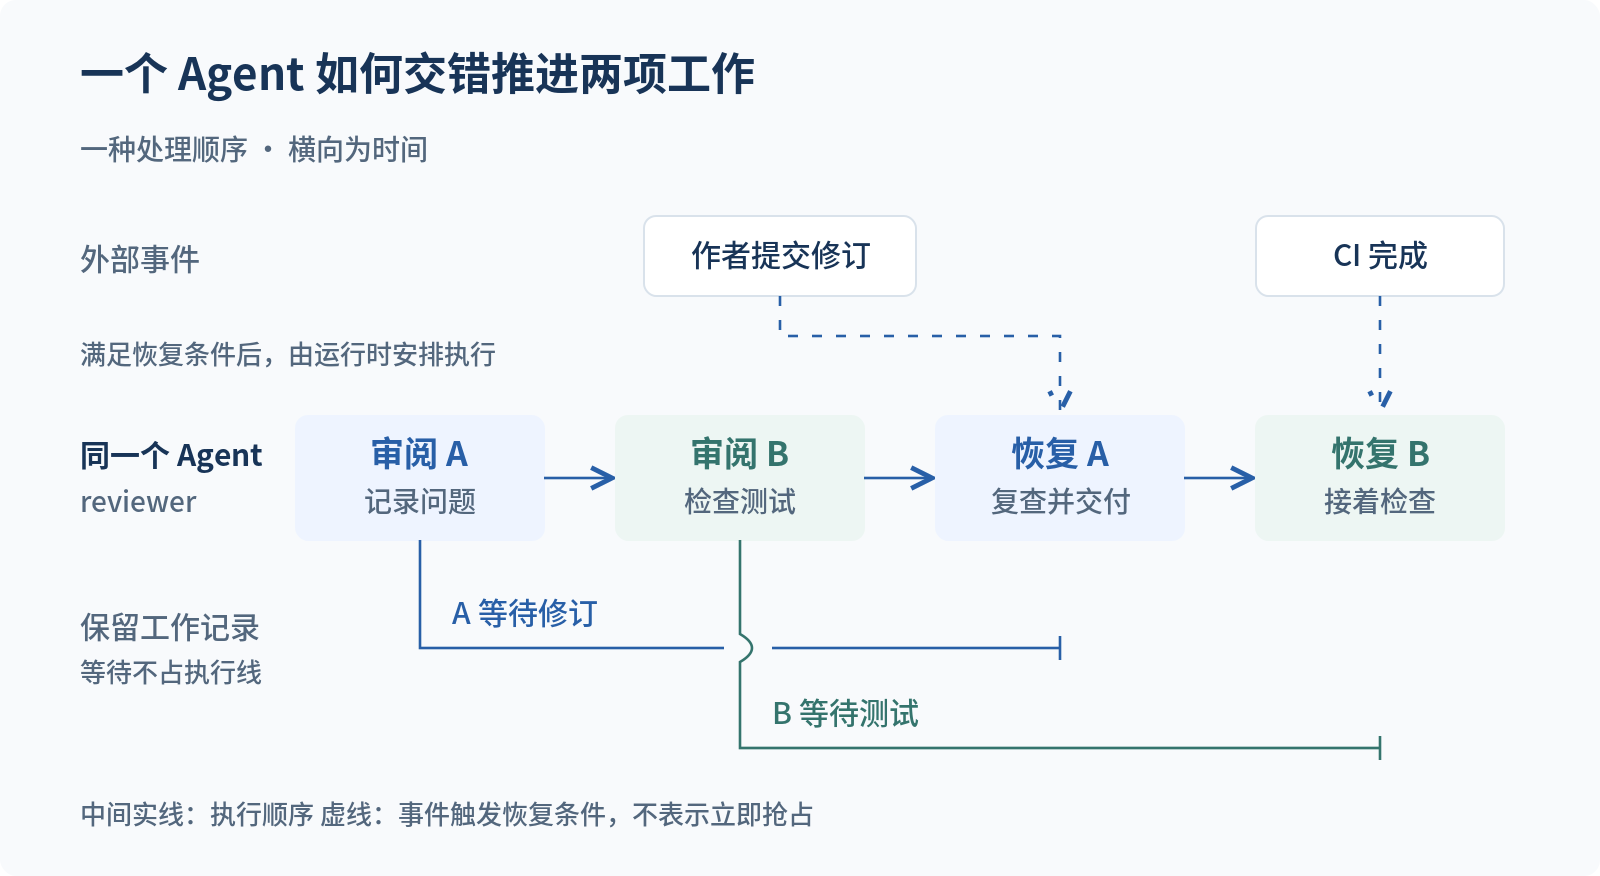
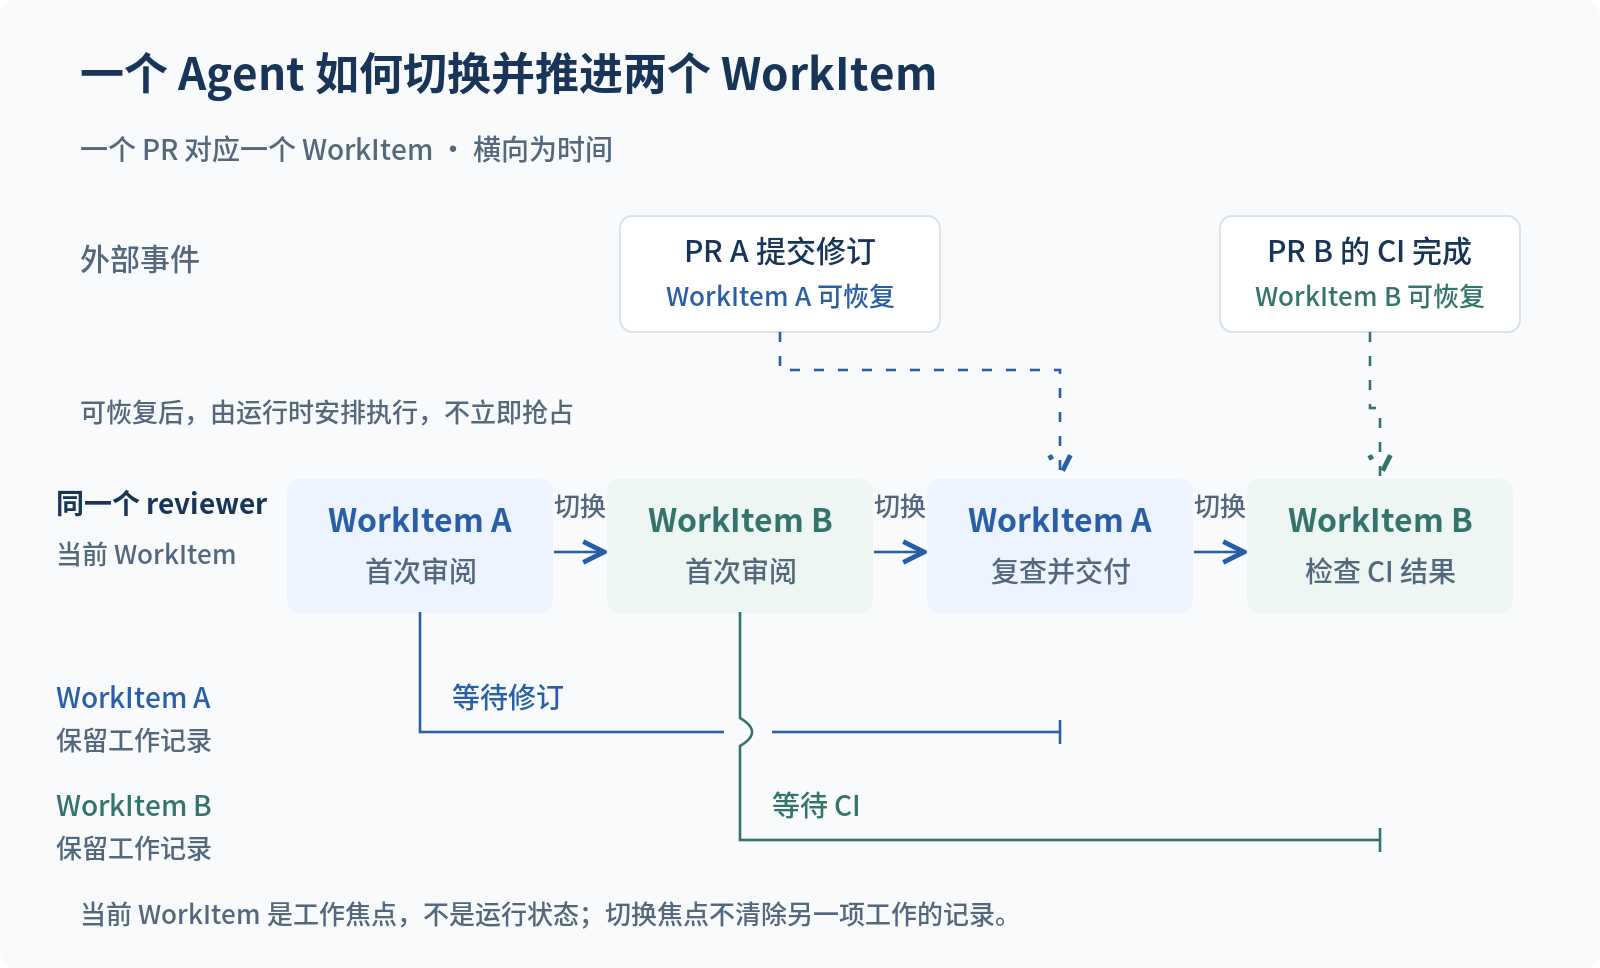
docs: clarify reviewer WorkItem focus and switching

diff --git a/docs/website/.tools/render-work-item-diagrams.py b/docs/website/.tools/render-work-item-diagrams.py
@@ -56,7 +56,16 @@ class Diagram:
         )
 
     def path(self, data, arrow=True, dashed=False, color=BLUE):
-        attrs = ' marker-end="url(#arrow)"' if arrow else ''
+        marker = 'arrow'
+        if arrow and color != BLUE:
+            marker = f'arrow-{len(self.parts)}'
+            self.parts.append(
+                f'<defs><marker id="{marker}" markerWidth="8" markerHeight="8" '
+                'refX="7" refY="4" orient="auto-start-reverse">'
+                f'<path d="M1 1L7 4L1 7" fill="none" stroke="{color}" '
+                'stroke-width="1.4"/></marker></defs>'
+            )
+        attrs = f' marker-end="url(#{marker})"' if arrow else ''
         attrs += ' stroke-dasharray="5 7"' if dashed else ''
         self.parts.append(
             f'<path d="{data}" fill="none" stroke="{color}" '
@@ -110,47 +119,54 @@ def architecture():
 
 def sequence():
     d = Diagram(
-        '一个 Agent 如何交错推进两项工作',
-        '同一个 reviewer 依次审阅 A、审阅 B、恢复 A、恢复 B。'
-        '外部事件满足恢复条件后，由运行时安排执行；等待期间工作记录保留。',
-        438,
+        '一个 Agent 如何切换并推进两个 WorkItem',
+        '每个 PR 对应一个 WorkItem。同一个 reviewer 的当前工作焦点依次为 A、B、A、B。'
+        '外部事件使对应 WorkItem 可恢复，再由运行时安排执行；切换焦点不清除等待记录。',
+        484,
     )
     teal = '#34746d'
-    d.text(40, 80, '一种处理顺序 · 横向为时间', 14, MUTED)
+    d.text(40, 80, '一个 PR 对应一个 WorkItem · 横向为时间', 14, MUTED)
 
     d.text(40, 135, '外部事件', 15, MUTED)
-    for x, width, title in [(322, 136, '作者提交修订'), (628, 124, 'CI 完成')]:
-        d.rect(x, 108, width, 40)
-        d.text(x + width / 2, 133, title, 15, anchor='middle')
-    d.path('M390 148V168H530V206', dashed=True)
-    d.path('M690 148V206', dashed=True)
-    d.text(40, 182, '满足恢复条件后，由运行时安排执行', 13, MUTED)
+    for x, width, title, note, color in [
+        (310, 160, 'PR A 提交修订', 'WorkItem A 可恢复', BLUE),
+        (610, 150, 'PR B 的 CI 完成', 'WorkItem B 可恢复', teal),
+    ]:
+        d.rect(x, 108, width, 58)
+        d.text(x + width / 2, 131, title, 15, anchor='middle')
+        d.text(x + width / 2, 153, note, 13, color, anchor='middle')
+    d.path('M390 166V185H530V238', dashed=True)
+    d.path('M685 166V204H690V238', dashed=True, color=teal)
+    d.text(40, 211, '可恢复后，由运行时安排执行，不立即抢占', 13, MUTED)
 
-    d.text(40, 233, '同一个 Agent', 15, bold=True)
-    d.text(40, 256, 'reviewer', 14, MUTED)
+    d.text(28, 257, '同一个 reviewer', 14, bold=True)
+    d.text(28, 282, '当前 WorkItem', 13, MUTED)
     for i, (center, title, note, fill, color) in enumerate([
-        (210, '审阅 A', '记录问题', ACTIVE[0], BLUE),
-        (370, '审阅 B', '检查测试', '#edf6f3', teal),
-        (530, '恢复 A', '复查并交付', ACTIVE[0], BLUE),
-        (690, '恢复 B', '接着检查', '#edf6f3', teal),
+        (210, 'WorkItem A', '首次审阅', ACTIVE[0], BLUE),
+        (370, 'WorkItem B', '首次审阅', '#edf6f3', teal),
+        (530, 'WorkItem A', '复查并交付', ACTIVE[0], BLUE),
+        (690, 'WorkItem B', '检查 CI 结果', '#edf6f3', teal),
     ]):
-        d.rect(center - 62, 208, 124, 62, fill, fill)
-        d.text(center, 233, title, 17, color, bold=True, anchor='middle')
-        d.text(center, 256, note, 14, MUTED, anchor='middle')
+        d.rect(center - 66, 240, 132, 66, fill, fill)
+        d.text(center, 266, title, 16, color, bold=True, anchor='middle')
+        d.text(center, 291, note, 14, MUTED, anchor='middle')
         if i < 3:
-            d.path(f'M{center + 62} 239H{center + 96}')
+            d.path(f'M{center + 67} 276H{center + 92}')
+            d.text(center + 80, 258, '切换', 13, MUTED, anchor='middle')
 
-    d.text(40, 319, '保留工作记录', 15, MUTED)
-    d.text(40, 341, '等待不占执行线', 13, MUTED)
-    d.path('M210 270V324H362M386 324H530', arrow=False, color=BLUE)
-    d.path('M530 318V330', arrow=False, color=BLUE)
-    d.text(226, 312, 'A 等待修订', 15, BLUE)
+    d.text(28, 354, 'WorkItem A', 14, BLUE)
+    d.text(28, 375, '保留工作记录', 13, MUTED)
+    d.path('M210 306V366H362M386 366H530', arrow=False, color=BLUE)
+    d.path('M530 360V372', arrow=False, color=BLUE)
+    d.text(226, 354, '等待修订', 14, BLUE)
     # A small bridge keeps the crossing distinct from a state hand-off.
-    d.path('M370 270V317Q382 324 370 331V374H690', arrow=False, color=teal)
-    d.path('M690 368V380', arrow=False, color=teal)
-    d.text(386, 362, 'B 等待测试', 15, teal)
+    d.path('M370 306V359Q382 366 370 373V420H690', arrow=False, color=teal)
+    d.path('M690 414V426', arrow=False, color=teal)
+    d.text(28, 408, 'WorkItem B', 14, teal)
+    d.text(28, 429, '保留工作记录', 13, MUTED)
+    d.text(386, 408, '等待 CI', 14, teal)
 
-    d.text(40, 412, '中间实线：执行顺序    虚线：事件触发恢复条件，不表示立即抢占', 13, MUTED)
+    d.text(40, 462, '当前 WorkItem 是工作焦点，不是运行状态；切换焦点不清除另一项工作的记录。', 13, MUTED)
     d.save('work-item-reviewer-sequence-zh')
 
 

diff --git a/docs/website/zh-CN/blog/why-work-items.md b/docs/website/zh-CN/blog/why-work-items.md
@@ -116,11 +116,13 @@ Agent 将影响后续行动的发现写入工作记录，把完整 diff、日志
 
 ## 一个 reviewer，两个交错的 PR
 
-把这些分工放进一个场景。A 是 PR #101 的审阅，B 是 PR #102 的审阅。假设已经接好 PR 更新通知和测试结果，下图展示其中一种处理顺序。
+把这些分工放进一个场景。每个 PR 对应一个 WorkItem：A 负责 PR #101 的审阅，B 负责 PR #102 的审阅。假设已经接好 PR 更新通知和测试结果，下图展示其中一种处理顺序。
 
-<img src="/assets/work-item-reviewer-sequence-zh.png" width="800" height="438" alt="同一个 reviewer 沿唯一执行线依次审阅 A、审阅 B、恢复 A、恢复 B。上方作者提交修订与 CI 完成事件以虚线指向对应恢复阶段；下方分别保留 A 等待修订和 B 等待测试的工作记录。" loading="lazy" decoding="async">
+<img src="/assets/work-item-reviewer-sequence-zh.png" width="800" height="484" alt="同一个 reviewer 的当前 WorkItem 依次从 A 切换到 B，再回到 A、B。PR A 提交修订使 WorkItem A 可恢复，PR B 的 CI 完成使 WorkItem B 可恢复，再由运行时安排执行，不立即抢占。下方分别保留 WorkItem A 等待修订、WorkItem B 等待 CI 的记录。" loading="lazy" decoding="async">
 
-*图 2：中间只有一条 Agent 执行线；下方保留各项工作的等待记录，上方事件触发对应的恢复条件。运行时再安排执行，不代表通知一到就打断当前工作，也不规定固定优先级。*
+*图 2：中间是同一个 reviewer 切换当前 WorkItem 的执行顺序；下方保留各 WorkItem 的等待记录，上方事件满足对应工作的恢复条件，不表示立即抢占。*
+
+reviewer 通过选择或切换 WorkItem（`PickWorkItem`）确定当前工作焦点，即 current WorkItem；运行时也可以在唤醒时选择可继续的工作。**当前 WorkItem 表示聚焦哪项工作，不等于这项工作正在运行**：它也可能处于等待中。切换焦点不会清除另一项工作的进度与等待条件。
 
 ### A 等修订，Agent 先处理 B
 

diff --git a/docs/website/assets/README.md b/docs/website/assets/README.md
@@ -14,9 +14,11 @@ pairs. It requires CairoSVG and Noto Sans CJK SC.
 
 - `work-item-architecture-zh`: 800×430, showing per-turn judgment, persistent
   work records, and resumption after waiting. It is not an internal component map.
-- `work-item-reviewer-sequence-zh`: 800×438, showing one agent's execution line,
-  external events above it, and retained waiting records below it. Dashed arrows
-  show events satisfying resumption conditions, not immediate preemption.
+- `work-item-reviewer-sequence-zh`: 800×484, showing one reviewer's current
+  WorkItem switching A → B → A → B. Each PR maps to one WorkItem, with consistent
+  colors across execution, external events, and retained waiting records.
+  Events make the corresponding WorkItem resumable, not immediately preemptive;
+  current focus is distinct from running or waiting state.
 - Both use a single desktop-oriented layout. Keep source dimensions
   synchronized with the article HTML.
 
